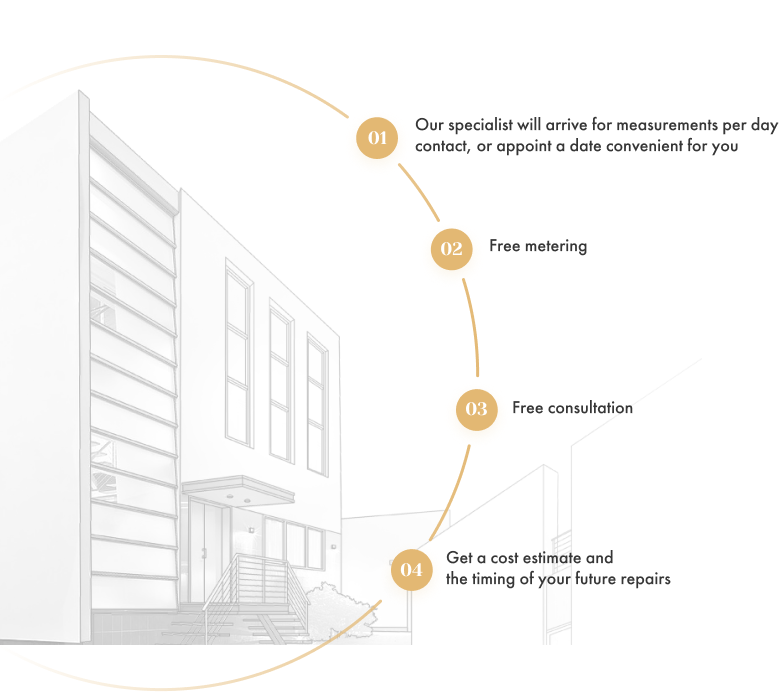
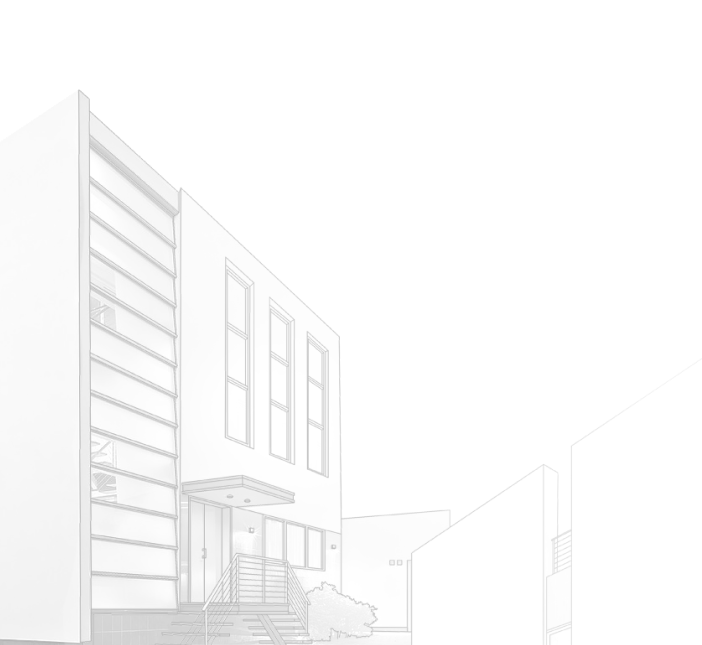
feat: add circle item

diff --git a/index.html b/index.html
@@ -279,7 +279,35 @@
         </div>
       </section>
       <section class="graph">
-        <div class="graph__image"></div>
+        <div class="graph__image">
+          <span class="graph__circle"></span>
+          <div class="graph__point point_one">
+            <span class="point__number">01</span>
+            <span class="point__text">
+              Our specialist will arrive for measurements per day<br />
+              appoint a date convenient for you
+            </span>
+          </div>
+          <div class="graph__point point_two">
+            <span class="point__number">02</span>
+            <span class="point__text">
+              Free metering
+            </span>
+          </div>
+          <div class="graph__point point_three">
+            <span class="point__number">03</span>
+            <span class="point__text">
+              Free consultation
+            </span>
+          </div>
+          <div class="graph__point point_four">
+            <span class="point__number">04</span>
+            <span class="point__text">
+              Get a cost estimate and<br />
+              the timing of your future repairs
+            </span>
+          </div>
+        </div>
         <div class="details">
           <form class="form">
             <h3 class="form__header">
@@ -473,10 +501,10 @@
             6 steps to <br />
             the goal
             <img
-            class="line"
-            src="assets/images/projects-title-line.png"
-            alt="projects-line"
-          />
+              class="line"
+              src="assets/images/projects-title-line.png"
+              alt="projects-line"
+            />
           </h2>
           <div class="details__index">1/6</div>
           <article class="explanation">
@@ -494,17 +522,41 @@
             </p>
           </article>
           <div class="pagination">
-              <img
+            <img
               src="assets/images/arrow-left.png"
               alt="left-arr"
               class="pagination__arrow"
             />
-            <img src="assets/images/dot.png" alt="dot" class="pagination__item" />
-            <img src="assets/images/dot.png" alt="dot" class="pagination__item" />
-            <img src="assets/images/dot.png" alt="dot" class="pagination__item" />
-            <img src="assets/images/dot.png" alt="dot" class="pagination__item" />
-            <img src="assets/images/dot.png" alt="dot" class="pagination__item" />
-            <img src="assets/images/dot.png" alt="dot" class="pagination__item" />
+            <img
+              src="assets/images/dot.png"
+              alt="dot"
+              class="pagination__item"
+            />
+            <img
+              src="assets/images/dot.png"
+              alt="dot"
+              class="pagination__item"
+            />
+            <img
+              src="assets/images/dot.png"
+              alt="dot"
+              class="pagination__item"
+            />
+            <img
+              src="assets/images/dot.png"
+              alt="dot"
+              class="pagination__item"
+            />
+            <img
+              src="assets/images/dot.png"
+              alt="dot"
+              class="pagination__item"
+            />
+            <img
+              src="assets/images/dot.png"
+              alt="dot"
+              class="pagination__item"
+            />
             <img
               src="assets/images/arrow-right.png"
               alt="right-arr"

diff --git a/src/style.css b/src/style.css
@@ -848,9 +848,61 @@
     margin-bottom: 260px;
   }
   .graph .graph__image {
+    position: relative;
     width: 800px;
     height: 691px;
     background: url("../assets/images/graph.png") no-repeat;
+  }
+  .graph .graph__image .graph__circle {
+    position: absolute;
+    top: 30px;
+    left: -100px;
+    width: 650px;
+    height: 650px;
+    border: 5px solid #e3b873;
+    border-radius: 50%;
+  }
+  .graph .graph__image .graph__point {
+    display: -webkit-box;
+    display: -ms-flexbox;
+    display: flex;
+    -webkit-box-align: center;
+        -ms-flex-align: center;
+            align-items: center;
+    position: absolute;
+  }
+  .graph .graph__image .graph__point .point__number {
+    width: 102px;
+    height: 100px;
+    font-family: "YesevaOne";
+    font-size: 18px;
+    line-height: 60px;
+    color: #ffffff;
+    text-align: center;
+    background-color: #e3b873;
+    border: 20px solid #ffffff;
+    border-radius: 50%;
+  }
+  .graph .graph__image .graph__point .point__text {
+    margin-left: 20px;
+    font-family: "FuturaMediumC";
+    font-size: 18px;
+  }
+  .graph .graph__image .point_one {
+    top: 10px;
+    left: 290px;
+  }
+  .graph .graph__image .point_two {
+    top: 130px;
+    left: 440px;
+  }
+  .graph .graph__image .point_three {
+    top: 310px;
+    left: 495px;
+  }
+  .graph .graph__image .point_four {
+    top: 493px;
+    left: 440px;
   }
   .graph .details .form {
     width: 509px;

diff --git a/styles/_graph.scss b/styles/_graph.scss
@@ -9,9 +9,66 @@
     margin-bottom: 260px;
 
     .graph__image {
+      position: relative;
       width: 800px;
       height: 691px;
       background: url("../assets/images/graph.png") no-repeat;
+
+      .graph__circle {
+        position: absolute;
+        top: 30px;
+        left: -100px;
+        // background: red;
+        width: 650px;
+        height: 650px;
+        border: 5px solid $primary;
+        border-radius: 50%;
+      }
+
+      .graph__point {
+        display: flex;
+        align-items: center;
+        position: absolute;
+
+        .point__number {
+          width: 102px;
+          height: 100px;
+          @include fontYesevaOne;
+          font-size: 18px;
+          line-height: 60px;
+          color: $secondary;
+          text-align: center;
+          background-color: $primary;
+          border: 20px solid $secondary;
+          border-radius: 50%;
+        }
+
+        .point__text {
+          margin-left: 20px;
+          @include fontFuturaMedium;
+          font-size: 18px;
+        }
+      }
+
+      .point_one {
+        top: 10px;
+        left: 290px;
+      }
+
+      .point_two {
+        top: 130px;
+        left: 440px;
+      }
+
+      .point_three {
+        top: 310px;
+        left: 495px;
+      }
+
+      .point_four {
+        top: 493px;
+        left: 440px;
+      }
     }
 
     .details {
